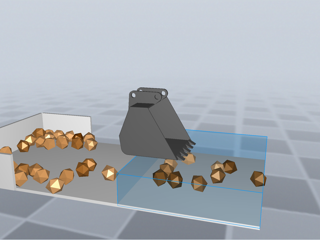
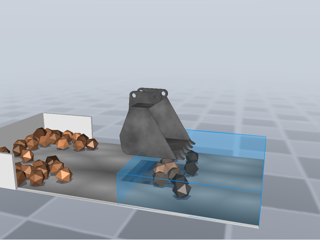
Examples: no bodies placed inside each other or off their joints
Flaws the accuracy diagnostics found in the scene setups. gears: the gears sat 10 cm below
their joint points and snapped up in the first step. buoyancy: anchor and buoy moved out of
the cat's box envelope. rocket: starts standing on its legs (the box envelope reaches 1.42 m
below its origin), no longer 14 cm inside the pad. soil: the rocks' region keeps clear of
the wall and the ground, spacing one rock diameter. screwconv: the ball columns start above
the screw and the trough. noview: the random boxes are stacked by their heights on a ground
of 150 m, run for 8 s, and the final view fits the axes to the boxes (edged boxes are
primitives the automatic limits do not see). beltmaze: parcels dropped from 0.7 m so that
none starts inside the belt. Thumbnails re-shot.

diff --git a/examples/phxex_noview.m b/examples/phxex_noview.m
@@ -10,24 +10,34 @@ function phxex_noview
     rng(0);
 
     % Create a static ground body with a box shape
-    ground = phx.Body([], "Type", "static", "Position", [0 0 -1], "Shape", {"Box", "Style", "edged", "Size", [50 50 1], "Color", [0.8 0.8 0.8]});
+    ground = phx.Body([], "Type", "static", "Position", [0 0 -1], "Shape", {"Box", "Style", "edged", "Size", [150 150 1], "Color", [0.8 0.8 0.8]});
 
-    % Create multiple box bodies positioned above the ground
+    % Create multiple boxes of random sizes stacked above the ground, half a
+    % metre apart
+    bottom = 5;
     for i = 1:40
-        boxes(i) = phx.Body([], "Position", [0 0 5+i*2], "Shape", {"Box", "Style", "edged", "Size", rand(1, 3)*5});
+        sz = rand(1, 3)*5;
+        boxes(i) = phx.Body([], "Position", [0 0 bottom + sz(3)/2], "Shape", {"Box", "Style", "edged", "Size", sz});
+        bottom = bottom + sz(3) + 0.5;
     end
 
     % Combine ground and boxes into a single array for simulation
     simulatedBodies = [ground boxes];
 
-    % Run the simulation for 5 seconds with 1000 time steps
+    % Run the simulation for 8 seconds with 1600 time steps
     sim = phx.Simulation(simulatedBodies);
-    sim.step(5, 1000, -1);
+    sim.step(8, 1600, -1);
     delete(sim);
 
     % Optional view of the model state after the simulation
     ax = cla(clf); view(3); axis("equal");
     set([ground boxes], "ParentAxes", ax);
+
+    % Edged boxes are drawn by primitives that the automatic axes limits do
+    % not see: fit the limits to the boxes, down to the top of the ground
+    bb = boundingBox(boxes);
+    bb(1, 3) = -0.5;
+    axis(ax, reshape(bb + [-1; 1], 1, []));
 
     % Display the position of the 7th box after the simulation
     title("Box #7 position: "+mat2str(boxes(7).Position));

diff --git a/examples/phxex_buoyancy.m b/examples/phxex_buoyancy.m
@@ -51,13 +51,13 @@ function phxex_buoyancy(duration, waves)
     crate = phx.Body(ax, "Position", [-2 -1.5 1.5], "EulerAngles", [0.4 0.3 0], ...
         "Shape", {"Box", "Size", [0.8 0.8 0.8], "Density", 400, ...
         "Color", [0.8 0.6 0.35]}, "Friction", 0.5);
-    buoy = phx.Body(ax, "Position", [1.8 -1.5 2], ...
+    buoy = phx.Body(ax, "Position", [1.8 -2.4 2], ...
         "Shape", {"Sphere", "Radius", 0.4, "Density", 300, "Color", [1 0.35 0.25]}, ...
         "Friction", 0.5);
     timber = phx.Body(ax, "Position", [0 1.5 1.2], "EulerAngles", [0 0 0.6], ...
         "Shape", {"Capsule", "Radius", 0.25, "Height", 1.2, "Axis", "x", ...
         "Density", 600, "Color", [0.55 0.4 0.25]}, "Friction", 0.5);
-    anchor = phx.Body(ax, "Position", [2 1.8 0.8], ...
+    anchor = phx.Body(ax, "Position", [3.4 1.8 0.8], ...
         "Shape", {"Box", "Size", [0.5 0.5 0.5], "Density", 3000, ...
         "Color", [0.35 0.35 0.4]}, "Friction", 0.6);
     cat = phx.Body(ax, "Position", [2 1.8 1.8], ...

diff --git a/examples/phxex_gears.m b/examples/phxex_gears.m
@@ -30,12 +30,12 @@ function phxex_gears
 
     % Create right static cylinder and dynamic gear body
     b1 = phx.Body(ax, "Type", "static", "Position", [-d 0 0.2], "Shape", {"Cylinder", "Radius", 0.1, "Height", 0.4, "Color", 0.6});
-    g1 = phx.Body(ax, "Position", [-d 0 0.1], "Shape", gearShape(m, z1, alpha, 0, w, [0.4 0.5 0.6]));
+    g1 = phx.Body(ax, "Position", [-d 0 0.2], "Shape", gearShape(m, z1, alpha, 0, w, [0.4 0.5 0.6]));
     phx.RevoluteJoint(b1, g1);
 
     % Create left static cylinder and dynamic gear body
     b2 = phx.Body(ax, "Type", "static", "Position", [d 0 0.2], "Shape", {"Cylinder", "Radius", 0.1, "Height", 0.4, "Color", 0.6});
-    g2 = phx.Body(ax, "Position", [d 0 0.1], "Shape", gearShape(m, z2, alpha, ph, w, [0.5 0.6 0.4]));
+    g2 = phx.Body(ax, "Position", [d 0 0.2], "Shape", gearShape(m, z2, alpha, ph, w, [0.5 0.6 0.4]));
     phx.RevoluteJoint(b2, g2, "TargetVelocity", 5, "MaxTorque", 10);
 
     % Initialize the simulation with specified settings

diff --git a/examples/phxex_soil.m b/examples/phxex_soil.m
@@ -20,7 +20,7 @@ function phxex_soil
     phx.Body(ax, "Type", "static", "Position", [2.28 -1.53 0.36], "Shape", {"Box", "Size", [1.5 0.06 0.72], "Color", [1 1 1]});
 
     % Random rocks of 0.36 m scattered over the digging area
-    rocks = phx.assembly.scatter({"Rock", "Radius", 0.18}, 50, "Region", [1.2 2.4 1.2], "Spacing", 0.18, "Position", [2.4 0 0.12], "Color", [0.9 0.6 0.4], "RandomTint", 0.7);
+    rocks = phx.assembly.scatter({"Rock", "Radius", 0.18}, 50, "Region", [1.0 2.4 1.2], "Spacing", 0.36, "Position", [2.3 0 0.22], "Color", [0.9 0.6 0.4], "RandomTint", 0.7);
     
     % Create a kinematic body (bucket of 1.2 m) for interaction
     exc = phx.Body(ax, "Type", "kinematic", "Position", [0 0 0.66], "Shape", {resdir+"Bucket.stl", "Scale", 0.012, "Centered", true, "Color", 0.4, "Envelope", "concave", "Style", "flat", "Texture", "stone", "TextureBlend", 0.2});

diff --git a/examples/phxex_beltmaze.m b/examples/phxex_beltmaze.m
@@ -48,13 +48,14 @@ function phxex_beltmaze
             "Texture", texture, "TextureBlend", 0.15});
     end
 
-    % Parcels, dropped onto the feeder in a repeatable pseudo-random spread.
+    % Parcels, dropped onto the feeder in a repeatable pseudo-random spread,
+    % from high enough that the tallest one (1.2 m) starts above the belt.
     % The lane sets the route, the position along the belt sets the order.
     rng(7);
     colors = summer(nParcels);
     lane = sign(rand(nParcels, 1) - 0.5);
     for i = 1:nParcels
-        phx.Body("Position", [-6.6 + 4.8*rand, lane(i)*(0.45 + 0.85*rand), 0.5], ...
+        phx.Body("Position", [-6.6 + 4.8*rand, lane(i)*(0.45 + 0.85*rand), 0.7], ...
             "Shape", {"Box", "Size", rand(1, 3) + 0.2, "Color", colors(i, :), "Texture", "wood", "TextureBlend", 0.4});
     end
 

diff --git a/examples/phxex_rocket.m b/examples/phxex_rocket.m
@@ -67,8 +67,9 @@ function phxex_rocket(hopHeight)
     padB = phx.Body(ax, "Type", "static", "Position", [padBx 0 0.2], "EulerAngles", [padBtilt*pi/180 0 0], ...
         "Shape", {"Box", "Size", [3 3 0.1], "Color", [0.3 0.45 0.3], "Texture", "circles", "TextureBlend", 0.2});
 
-    % The rocket; mass properties are set explicitly
-    rocket = phx.Body(ax, "Position", [0 0 0.4 + hBase + 0.01], ...
+    % The rocket, standing on its legs on pad A (the legs reach 1.42 m below
+    % its origin); mass properties are set explicitly
+    rocket = phx.Body(ax, "Position", [0 0 0.25 + 1.42 + 0.005], ...
         "Shape", {resdir+"rocket.stl", "Scale", scl*[1 1 1], "Envelope", "box", "Color", 1, ...
         "Material", "glossy", "Texture", "xor", "TextureBlend", 0.5});
     rocket.Mass = mRocket;

diff --git a/examples/phxex_screwconv.m b/examples/phxex_screwconv.m
@@ -50,7 +50,7 @@ function phxex_screwconv(showGraphs)
     % Balls
     for j = -0.2:0.2:0.2
         for i = 1:30
-            phx.Body(ax, "Position", [0.8 j 0.2+i*0.13], "Shape", {"Sphere", "Diameter", 0.13});
+            phx.Body(ax, "Position", [0.8 j 0.62+i*0.135], "Shape", {"Sphere", "Diameter", 0.13});
         end
     end
 
